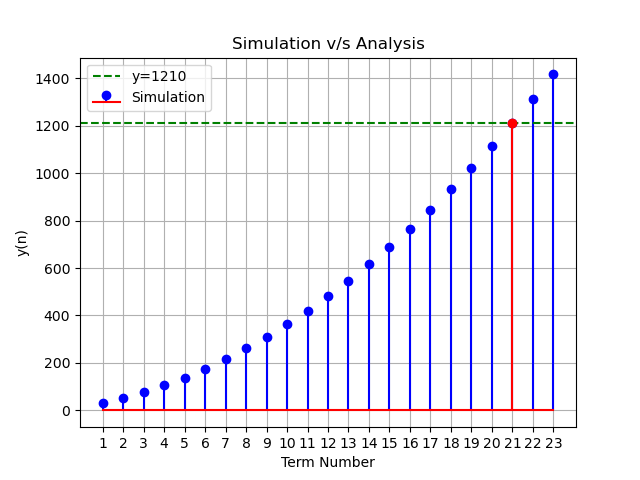
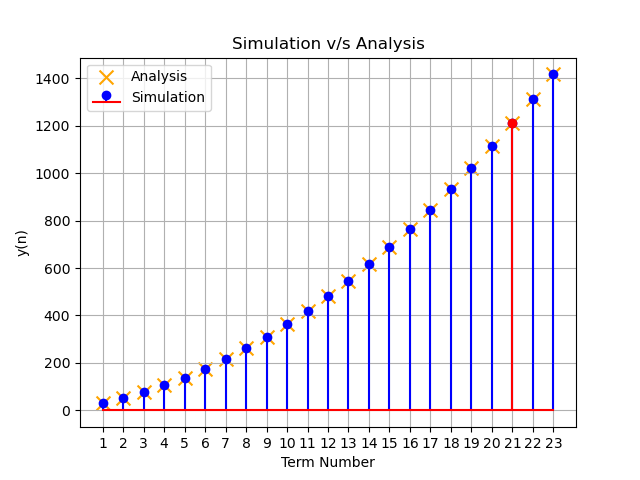
Add files via upload

diff --git a/Signals and systems/11.9.5.6/codes/code.py b/Signals and systems/11.9.5.6/codes/code.py
@@ -12,9 +12,8 @@ y_n = data[:24]
 highlighted_index = 21
 # plot the graph
 plt.stem(range(1, len(data) + 1), y_n, markerfmt='bo', linefmt='b-', basefmt='r-',label=r'Simulation') 
-plt.axhline(y=1210, color='green', linestyle='--',label='y=1210')
 plt.stem([highlighted_index], [data[highlighted_index - 1]], linefmt='r-', markerfmt='ro', basefmt=' ')
-
+plt.scatter(range(1, len(data) + 1), data, color='orange',marker='x',s=100,label=r'Analysis')
 # Set labels and title
 plt.xlabel('Term Number')
 plt.ylabel('y(n)')
